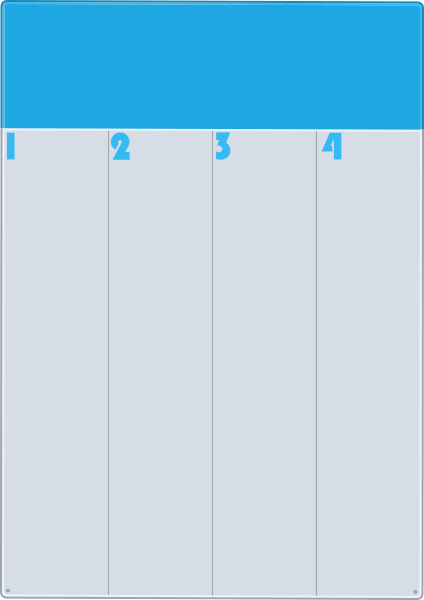
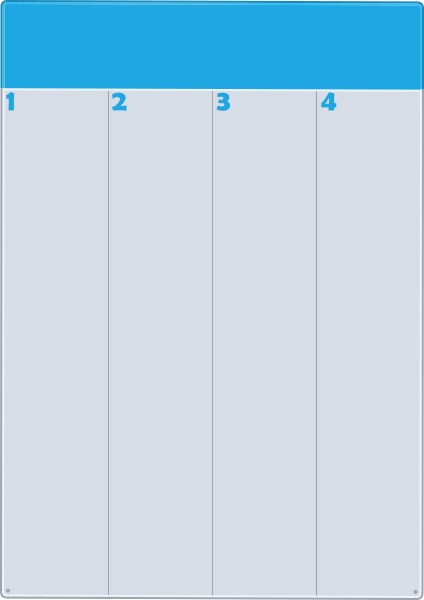
reset actions when play finishes

Changed region(s): [[0.0, 0.12, 1.0, 0.27]]

diff --git a/Algoritimos e Programa-o/Jogos/PyGame/EmBuscaDoPinico/sprites.py b/Algoritimos e Programa-o/Jogos/PyGame/EmBuscaDoPinico/sprites.py
@@ -38,8 +38,11 @@ class Player(pg.sprite.Sprite):
         self.image = self.game.player_imgs[index]
 
     def reset_pos(self):
-        self.rect.x = self.startpos[0]
-        self.rect.y = self.startpos[1]
+        print("player resetado")
+        print(self.startpos)
+        self.x = self.startpos[0]
+        self.y = self.startpos[1]
+        self.image = self.game.player_imgs[self.index]
 
     def collide_with_walls(self, dx=0, dy=0):
         for wall in self.game.walls:
@@ -84,8 +87,8 @@ class ActionObstacle(pg.sprite.Sprite):
         self.height = h
 
 
-    #     #     if(self.rect.colliderect(self.game.player.rect)):
-    #     #         if(self.action == LAVAR_MAOS):
+        #     if(self.rect.colliderect(self.game.player.rect)):
+        #         if(self.action == LAVAR_MAOS):
 
 
 class ChooseAction(pg.sprite.Sprite):
@@ -193,7 +196,9 @@ class ChooseAction(pg.sprite.Sprite):
                     break
                 self.game.update()
                 self.game.draw()
-                pg.time.wait(80)
+                self.game.draw_text('Repetições restantes: {}'.format(n-i-1), None, 24, TEXT_DARK_BLUE, 10, 50)
+                pg.display.flip()
+                pg.time.wait(PLAYER_TIME_WAIT)
             
 
 class PlayPauseAction(pg.sprite.Sprite):
@@ -206,25 +211,27 @@ class PlayPauseAction(pg.sprite.Sprite):
         self.mouse_hold = False
         self.image = self.game.player_actions_imgs[self.index]
         self.rect = self.image.get_rect()
+        self.played = False
         self.rect.x = x
         self.rect.y = y
 
     def get_action(self):
         event = self.game.evento
-        if (event.type == pg.MOUSEBUTTONDOWN and not self.playing and not self.mouse_hold):
+        if (event.type == pg.MOUSEBUTTONDOWN and not self.mouse_hold and not self.played):
             if event.button == 1:
                 if self.rect.collidepoint(event.pos):
-                    self.image = self.game.player_actions_imgs[self.index-1]
+                    self.image = self.game.player_actions_imgs[PAUSE_IND]
                     self.playing = True
                     self.mouse_hold = True
+                    self.played = True
                     self.play()
-        elif(event.type == pg.MOUSEBUTTONDOWN and self.playing and not self.mouse_hold):
+        elif(event.type == pg.MOUSEBUTTONDOWN and not self.mouse_hold and self.played):
             if(event.button == 1):
                 if self.rect.collidepoint(event.pos):
-                    self.image = self.game.player_actions_imgs[self.index]
-                    self.playing = False
+                    self.image = self.game.player_actions_imgs[PLAY_IND]
+                    self.played = False
                     self.mouse_hold = True
-                    self.pause()
+                    self.reset()
         elif(event.type == pg.MOUSEBUTTONUP):
             self.mouse_hold = False
         
@@ -237,10 +244,12 @@ class PlayPauseAction(pg.sprite.Sprite):
         self.game.playerActionHolder.execute_action()
 
     
-    def pause(self):
+    def reset(self):
         print("reset")
         self.game.playerActionHolder.actions_list = []
         self.game.player.reset_pos()
+        self.game.update()
+        self.game.draw()
 
 
 
@@ -266,7 +275,6 @@ class PlayerActionHolder(pg.sprite.Sprite):
         elif(self.after_loop):
             self.after_loop = False
             loop = self.actions_list[self.index]
-            print(loop)
             loop.loop_action = action.action_index
             loop = None
             self.actions_list.append(action)
@@ -276,7 +284,7 @@ class PlayerActionHolder(pg.sprite.Sprite):
 
     def show_action(self, surface):
         posx = 30
-        posy = 135
+        posy = 95
         self.loopImage = False
         self.is_loop = False
         for action in self.actions_list:
@@ -312,6 +320,7 @@ class PlayerActionHolder(pg.sprite.Sprite):
                     posx = 30   
 
             surface.blit(self.imagem, self.imagem_rect)
+            # Blit para loop aparecer por cima da imagem de ação.
             if(self.loopImage):
                 surface.blit(self.game.player_actions_imgs[LOOP_IND], self.loop_rect)
                 self.loopImage = False
@@ -322,9 +331,9 @@ class PlayerActionHolder(pg.sprite.Sprite):
                 action.execute()
                 self.game.update()
                 self.game.draw()
-                pg.time.wait(80)
+                pg.time.wait(PLAYER_TIME_WAIT)
             self.game.playPauseAction.playing = False
-            self.game.playPauseAction.image =  self.game.player_actions_imgs[PLAY_IND]
+            self.game.playPauseAction.image =  self.game.player_actions_imgs[RESET_IND]
 
 
 

diff --git a/Algoritimos e Programa-o/Jogos/PyGame/EmBuscaDoPinico/main.py b/Algoritimos e Programa-o/Jogos/PyGame/EmBuscaDoPinico/main.py
@@ -57,6 +57,7 @@ class Game:
         self.player_actions_imgs.append(pg.image.load(path.join(self.action_folder, PANTS_UP)).convert_alpha())
         self.player_actions_imgs.append(pg.image.load(path.join(self.action_folder, PAUSE)).convert_alpha())
         self.player_actions_imgs.append(pg.image.load(path.join(self.action_folder, PLAY)).convert_alpha())
+        self.player_actions_imgs.append(pg.image.load(path.join(self.action_folder, RESET)).convert_alpha())
 
         self.player_imgs.append(pg.image.load(path.join(self.char_folder, PLAYER_IMG_UP1)).convert_alpha())
         self.player_imgs.append(pg.image.load(path.join(self.char_folder, PLAYER_IMG_UP2)).convert_alpha())
@@ -137,8 +138,14 @@ class Game:
         for y in range(0, self.map_rect.height, TILESIZE//2):
             pg.draw.line(self.screen, LIGHTGREY2, (MAP_SHIFT_X, y), (MAP_SHIFT_X+self.map_rect.width, y))
 
+    def draw_text(self, text, font_name, size, color, x, y, align="topleft"):
+        font = pg.font.Font(font_name, size)
+        text_surface = font.render(text, True, color)
+        text_rect = text_surface.get_rect(**{align: (x, y)})
+        self.screen.blit(text_surface, text_rect)
+
     def draw(self):
-        pg.display.set_caption(TITLE + " - FPS: "+"{:.2f}".format(self.clock.get_fps()))
+        pg.display.set_caption(TITLE + " - FPS: "+"{:.2f}".format(self.clock.get_fps()) + " - MOUSE POS: "+str(pg.mouse.get_pos() ))
         self.screen.fill(BGCOLOR)
         self.screen.blit(self.map_img, (MAP_SHIFT_X, 0))
         # self.draw_grid()

diff --git a/Algoritimos e Programa-o/Jogos/PyGame/EmBuscaDoPinico/settings.py b/Algoritimos e Programa-o/Jogos/PyGame/EmBuscaDoPinico/settings.py
@@ -10,6 +10,7 @@ YELLOW = (255, 255, 0)
 COLOR_INACTIVE = (40, 40, 40)
 COLOR_ACTIVE = (176,176,176)
 TEXT_BLUE = (137,194,212)
+TEXT_DARK_BLUE = (25,75,184)
 
 # GAME SETTINGS
 WIDTH = 1024
@@ -32,6 +33,9 @@ PLAYER_IMG_LEFT3 = 'char_01 (7).png'
 PLAYER_IMG_DOWN1 = 'char_01 (3).png'
 PLAYER_IMG_DOWN2 = 'char_01 (2).png'
 PLAYER_IMG_DOWN3 = 'char_01 (4).png'
+
+#PLAYER MOVEMENT
+PLAYER_TIME_WAIT = 100
 
 #MAP SETTINGS
 MAP_SHIFT_X = 424
@@ -63,10 +67,11 @@ LAVAR_MAOS_ACTION = 'lavar_maos.png'
 SECAR_MAOS_ACTION = 'secar_maos.png'
 LOOP = 'loop.png'
 PAPEL_ACTION = 'papel.png'
-PAUSE = 'pause-button.png'
-PLAY = 'play-button.png'
 PANTS_DOWN = 'pants_down.png'
 PANTS_UP = 'pants_up.png'
+PAUSE = 'pause-button.png'
+PLAY = 'play-button.png'
+RESET = 'reload-button.png'
 
 #ACTION INDEX
 
@@ -88,6 +93,7 @@ PANTS_DOWN_IND = 14
 PANTS_UP_IND = 15
 PAUSE_IND = 16
 PLAY_IND = 17
+RESET_IND = 18
 
 
 #UI POP UPS
